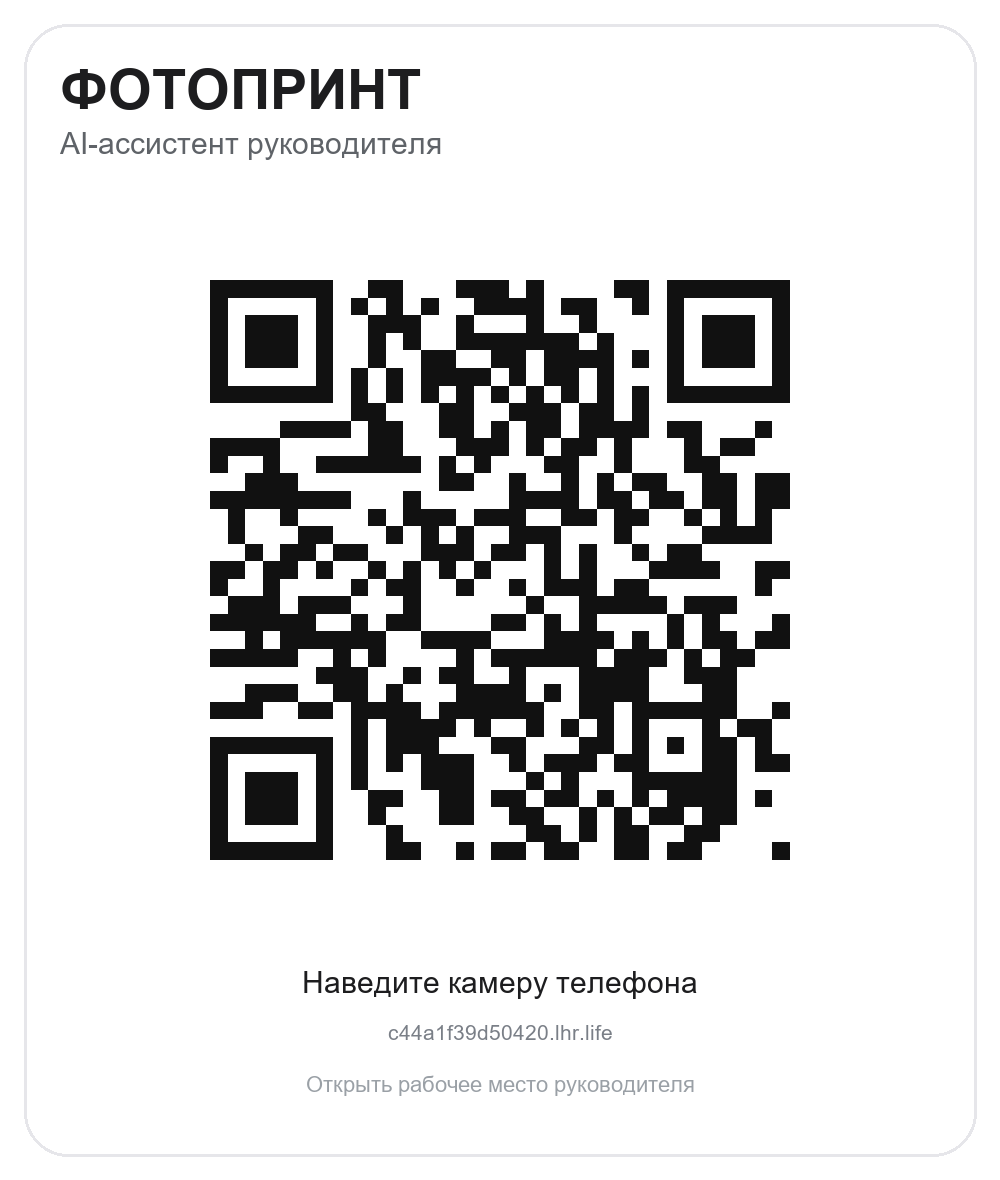
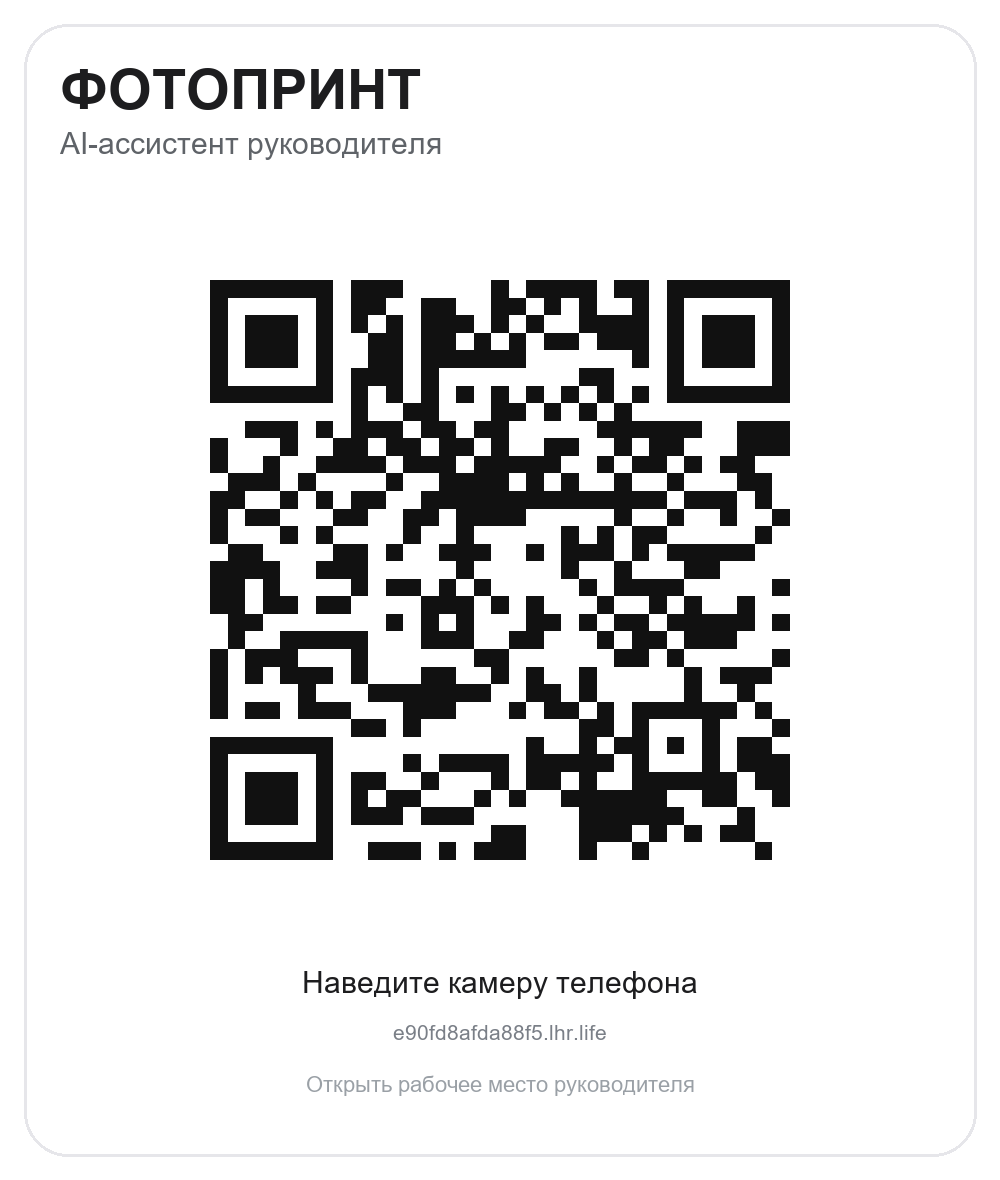
Demo launcher: auto-select free port when 8000 is busy

Changed region(s): [[0.186, 0.2136, 0.806, 0.7322], [0.403, 0.8542, 0.62, 0.8847]]

diff --git a/README.md b/README.md
@@ -101,7 +101,9 @@ powershell -ExecutionPolicy Bypass -File scripts\start_demo.ps1
 ```
 
 Скрипт поднимает FastAPI (если он ещё не запущен), ждёт `/health`, затем поднимает
-HTTPS-туннель и обновляет QR. Остановить всё:
+HTTPS-туннель и обновляет QR. Если порт 8000 занят другим приложением (например, Godot AI),
+скрипт автоматически берёт 8001/8010/8020 и пишет выбор в `tools/port.txt`.
+Остановить всё:
 
 ```powershell
 powershell -ExecutionPolicy Bypass -File scripts\stop_demo.ps1
